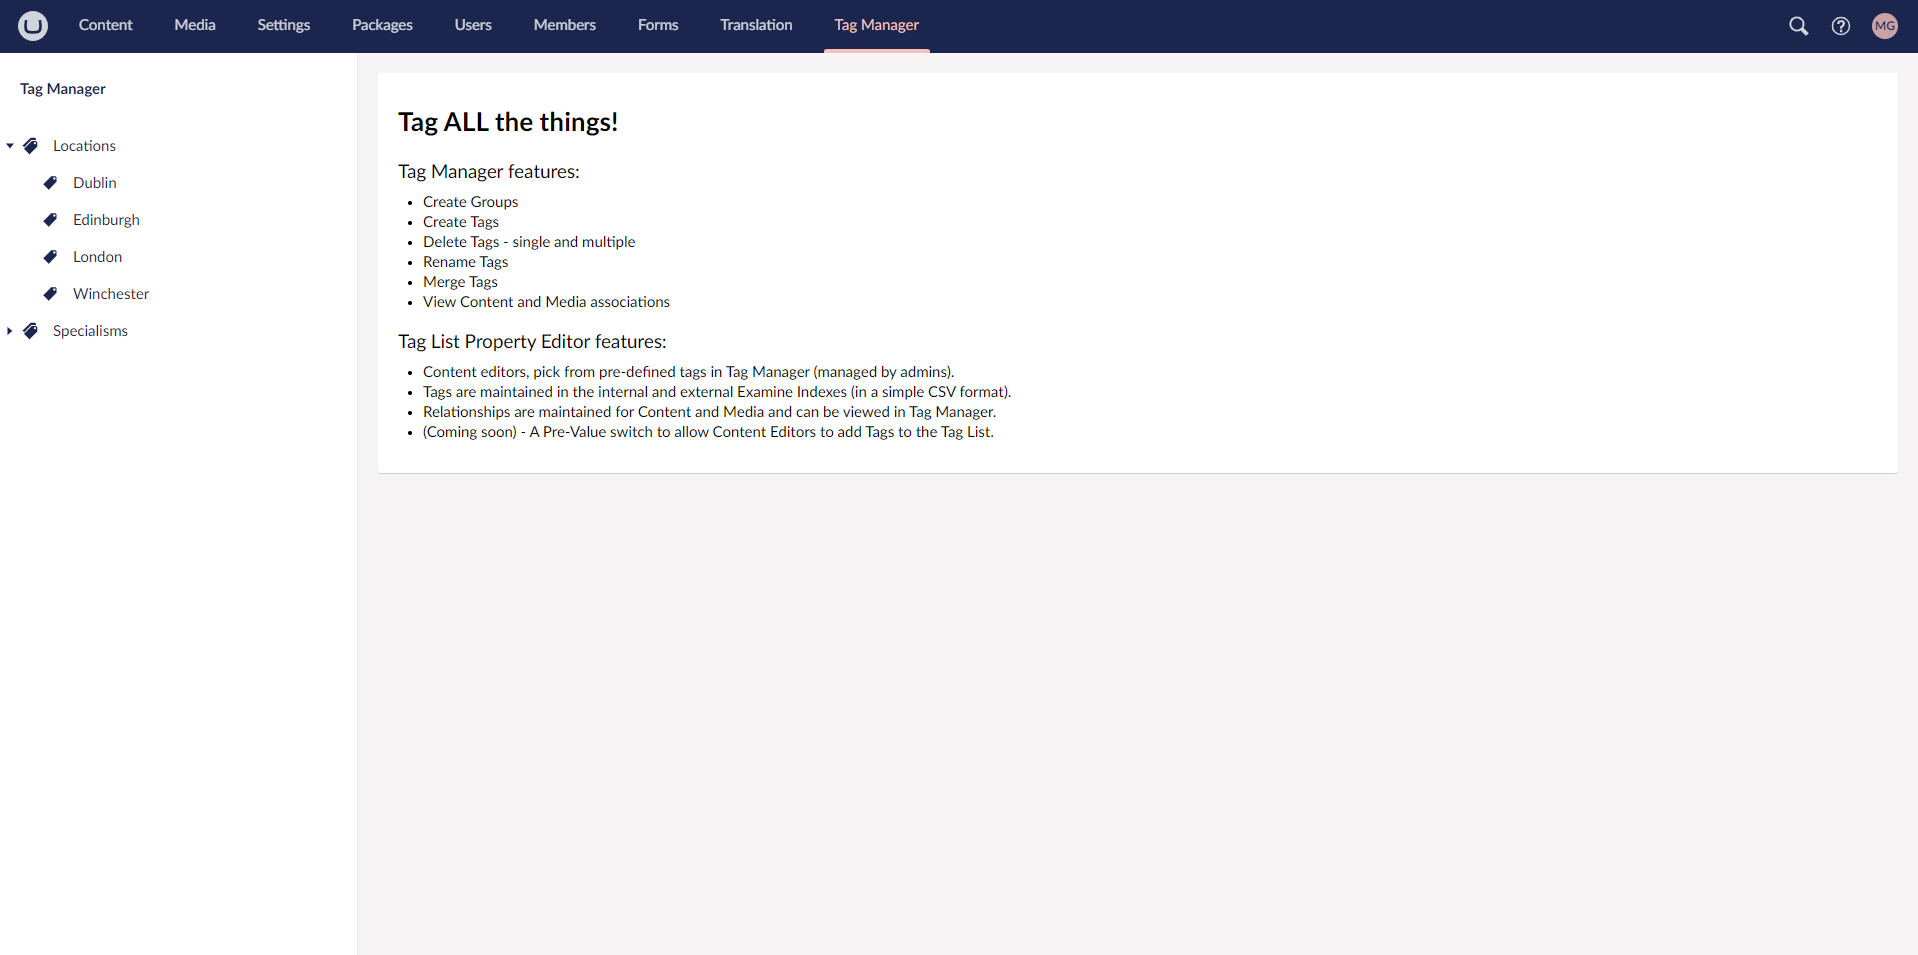
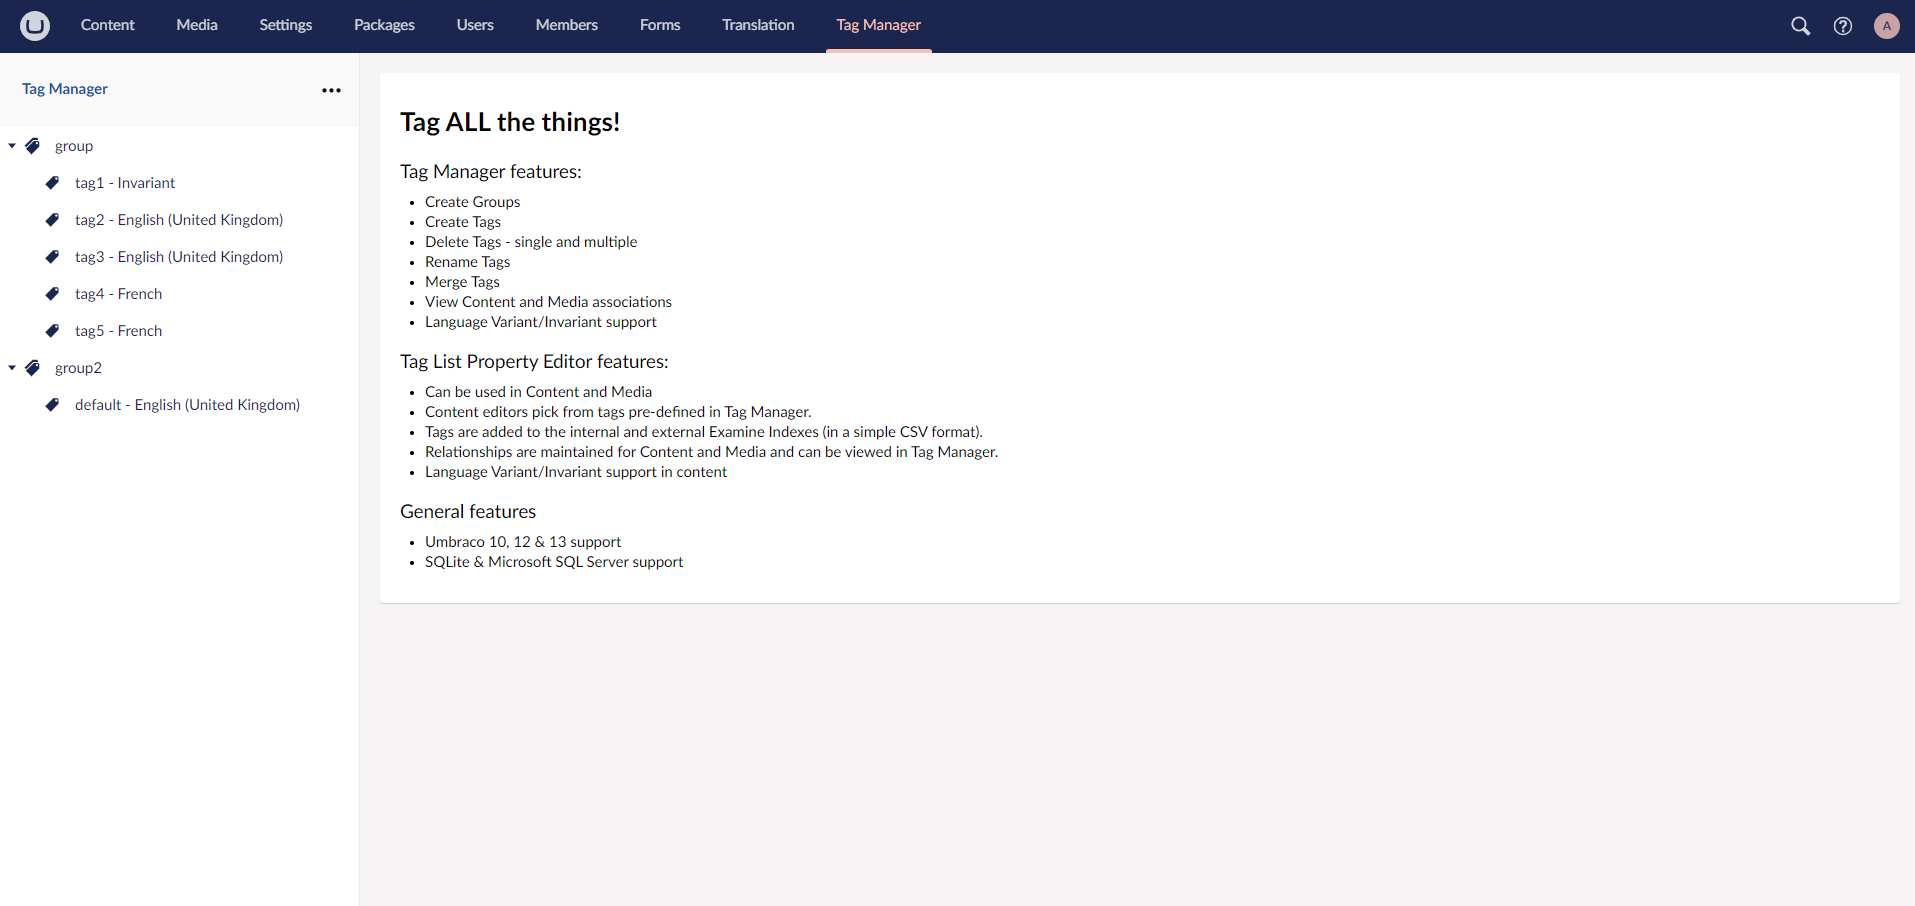
Updated s/s images

diff --git a/README.md b/README.md
@@ -1,6 +1,6 @@
 # Our.Umbraco.Community.TagManager
 
-Useful Tag utilities for Umbraco 10, 12 & 13.
+Tag utilities for Umbraco 10, 12 & 13.
 
 Initially based on code from https://github.com/usome/UmbracoTagManager and https://github.com/huwred/Tag-Lister completely re-written using the repository pattern and improved UI.
 
@@ -12,21 +12,24 @@ Creates a tree view of all Tags that have been created by the Umbraco Tag Dataty
 The tree is split into separate branches for each tag Group created - useful if you run multiple blogs on your site, or have multiple Tag Groups defined in a site.
 
 1. Create Tag Groups.
-1. Create and change Tags.
-2. Delete Tags, single & multiple.
-3. Indication of how many times the Tag is currently being used (number in brackets in Group overview).
-4. Ability to merge Tags - useful in cases of spelling mistakes, cleaning up Tags, etc.
-5. Links to content and media where Tag is used.
-6. Language variant/invariant support.
+2. Create and change Tags.
+3. Delete Tags, single & multiple.
+4. Indication of how many times the Tag is currently being used (number in brackets in Group overview).
+5. Ability to merge Tags - useful in cases of spelling mistakes, cleaning up Tags, etc.
+6. Links to content and media where Tag is used.
+7. Language variant/invariant support. v13.1.
 
 ## Tag List Property Editor
 Provides a multi select (read-only) list of all tags assigned to the group. 
 
-1. Choose one or more tags from the list
+1. Choose one or more tags from the list.
 2. Works on Content and Media Doctypes.
-3. Language variant/invariant support (Media is invariant only)
-3. Tags are saved to the default internal and external indexes in CSV format.
+3. Language variant/invariant support (Media is invariant only). v13.1.
+4. Tags are saved to the default internal and external indexes in CSV format.
+
+## Additional features
+1. Tested in SQLite and MSSQL. v13.1.
 
 ## Roadmap
-2. Content editors can add tags to a Tag List, enabled in a Pre-value switch.
-3. Umbraco 14 support
+1. Content editors can add tags to a Tag List, enabled in a Pre-value switch.
+2. Umbraco 14 support.

diff --git a/Umbraco Tag Manager/README.md b/Umbraco Tag Manager/README.md
@@ -1,6 +1,6 @@
 # Our.Umbraco.Community.TagManager
 
-Useful Tag utilities for Umbraco 10, 12 & 13.
+Tag utilities for Umbraco 10, 12 & 13.
 
 Initially based on code from https://github.com/usome/UmbracoTagManager and https://github.com/huwred/Tag-Lister completely re-written using the repository pattern and improved UI.
 
@@ -12,21 +12,24 @@ Creates a tree view of all Tags that have been created by the Umbraco Tag Dataty
 The tree is split into separate branches for each tag Group created - useful if you run multiple blogs on your site, or have multiple Tag Groups defined in a site.
 
 1. Create Tag Groups.
-1. Create and change Tags.
-2. Delete Tags, single & multiple.
-3. Indication of how many times the Tag is currently being used (number in brackets in Group overview).
-4. Ability to merge Tags - useful in cases of spelling mistakes, cleaning up Tags, etc.
-5. Links to content and media where Tag is used.
-6. Language variant/invariant support.
+2. Create and change Tags.
+3. Delete Tags, single & multiple.
+4. Indication of how many times the Tag is currently being used (number in brackets in Group overview).
+5. Ability to merge Tags - useful in cases of spelling mistakes, cleaning up Tags, etc.
+6. Links to content and media where Tag is used.
+7. Language variant/invariant support. v13.1.
 
 ## Tag List Property Editor
 Provides a multi select (read-only) list of all tags assigned to the group. 
 
-1. Choose one or more tags from the list
+1. Choose one or more tags from the list.
 2. Works on Content and Media Doctypes.
-3. Language variant/invariant support (Media is invariant only)
-3. Tags are saved to the default internal and external indexes in CSV format.
+3. Language variant/invariant support (Media is invariant only). v13.1.
+4. Tags are saved to the default internal and external indexes in CSV format.
+
+## Additional features
+1. Tested in SQLite and MSSQL. v13.1.
 
 ## Roadmap
-2. Content editors can add tags to a Tag List, enabled in a Pre-value switch.
-3. Umbraco 14 support
+1. Content editors can add tags to a Tag List, enabled in a Pre-value switch.
+2. Umbraco 14 support.
